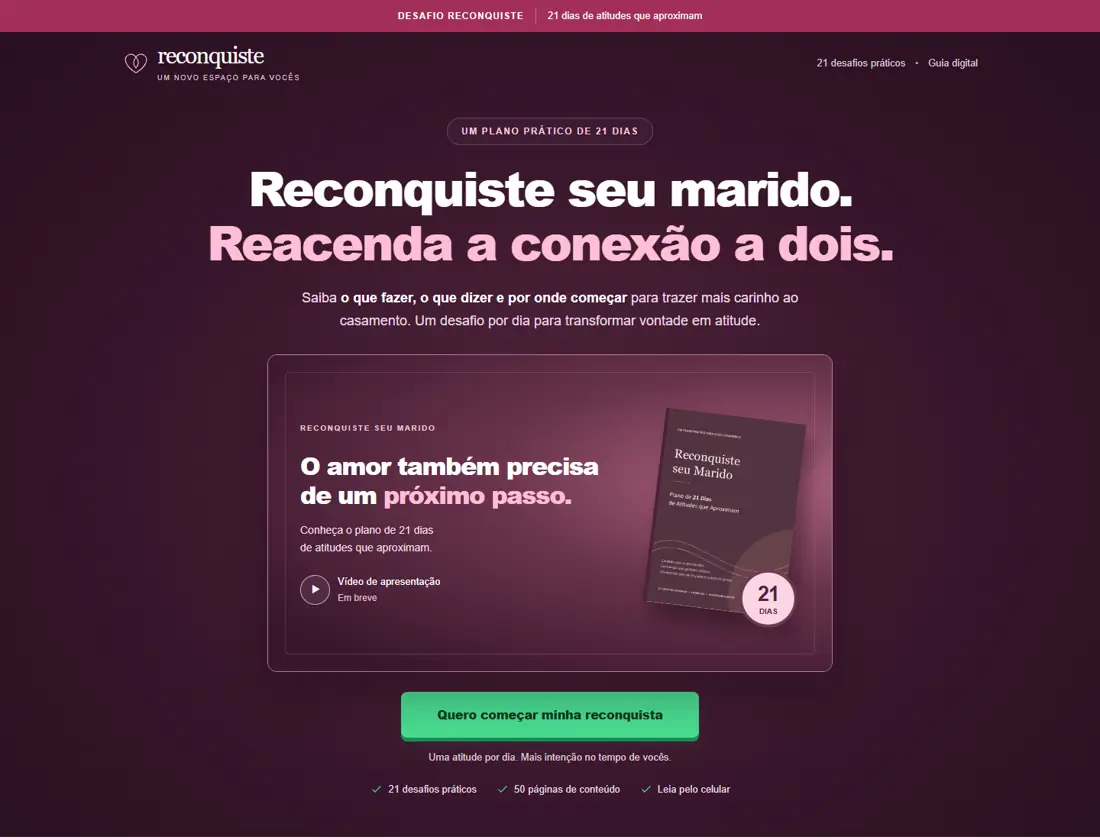
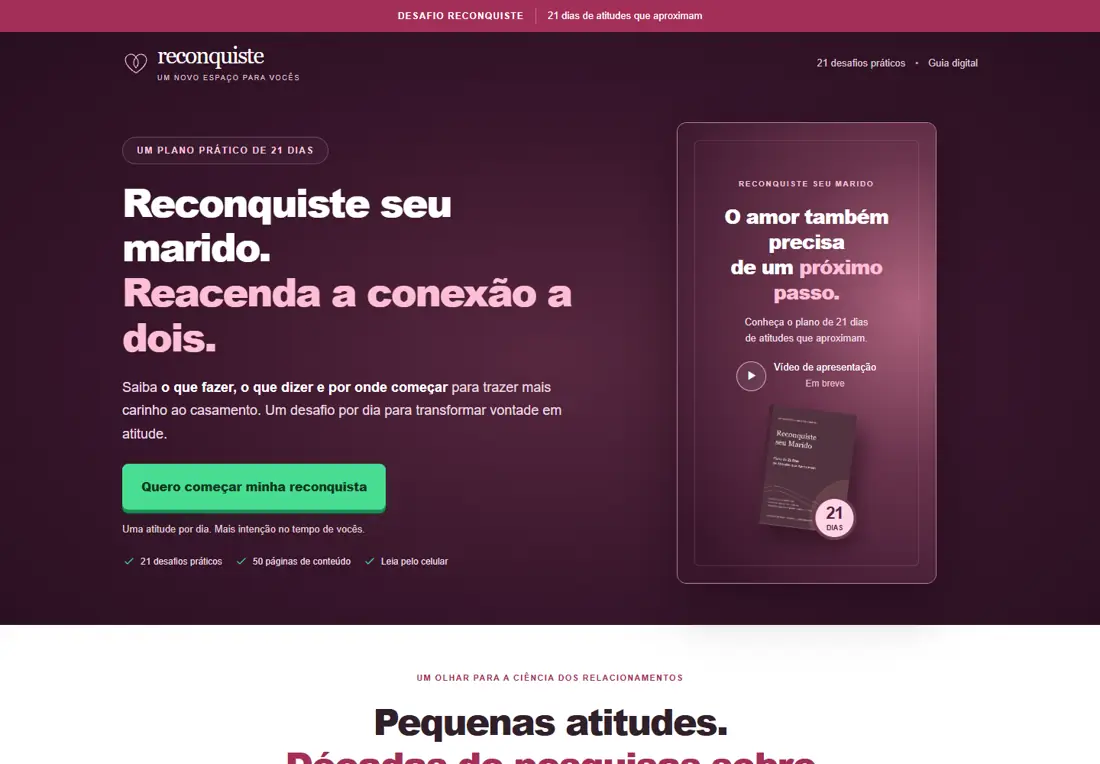
Switch VSL to portrait layout and prepare checkout-backed offer countdown

diff --git a/styles.css b/styles.css
@@ -332,3 +332,65 @@ dialog{padding:35px 24px}dialog h2{font-size:1.75rem}dialog p{font-size:.875rem}
 
 .person-avatar img{opacity:0}
 .person-avatar img.is-loaded{opacity:1}
+
+/* VSL vertical em todos os estados do player. */
+.hero{display:grid;grid-template-columns:minmax(0,1.15fr) minmax(0,.85fr);grid-template-rows:auto auto;column-gap:64px;row-gap:24px;align-items:center;text-align:left;padding-block:34px 54px}
+.hero-copy{grid-column:1;grid-row:1;align-self:end;max-width:none;margin:0}
+.hero h1{font-size:clamp(2.4rem,3.55vw,3.2rem);line-height:1.15}
+.hero-description{margin:22px 0 0;max-width:none}
+.hero-media{display:contents}
+.video-shell{grid-column:2;grid-row:1/3;aspect-ratio:9/16;width:min(100%,340px,calc(66svh * 9 / 16));max-height:66svh;margin-inline:auto;justify-self:center}
+.video-poster{flex-direction:column;justify-content:center;gap:24px;text-align:center;padding:30px 24px}
+.poster-copy{flex:none;width:100%}
+.poster-overline{font-size:.625rem;margin-bottom:17px}
+.video-poster p{font-size:1.65rem;line-height:1.25}
+.poster-subtitle{font-size:.8125rem;margin-top:13px}
+.video-placeholder{justify-content:center;font-size:.8125rem;margin-top:19px}
+.video-play{font-size:.8125rem;margin-top:18px}
+.poster-book{width:115px;margin:0}
+.poster-seal{width:58px;height:58px;right:-16px;bottom:-10px;font-size:.5625rem}
+.poster-seal strong{font-size:1.4rem}
+.hero-action{grid-column:1;grid-row:2;align-self:start;text-align:left;margin:0}
+.hero-action .button{min-width:0;max-width:100%;padding-inline:25px}
+.hero-facts{justify-content:flex-start;gap:8px 16px;font-size:.75rem}
+.announcement .countdown-pill{padding:5px 12px;border:1px solid #ffffff65;background:#52142f45;border-radius:6px;line-height:1.3}
+.countdown-pill time{font-size:1.125rem;font-weight:800;letter-spacing:.04em;font-variant-numeric:tabular-nums}
+@media(max-width:1000px) and (min-width:761px){
+.hero{column-gap:35px}
+.hero h1{font-size:2.55rem}
+.hero-description{font-size:1rem}
+.hero-facts{font-size:.6875rem;gap:8px 10px}
+}
+@media(max-width:760px){
+.hero{display:flex;flex-direction:column;gap:0;padding-block:22px 36px;text-align:center}
+.hero-copy{text-align:center;margin:0;width:100%;align-self:auto}
+.hero h1{font-size:clamp(2rem,7.6vw,2.9rem)}
+.hero-description{font-size:1rem;margin:19px auto 24px;max-width:500px}
+.video-shell{width:min(100%,320px,calc(64svh * 9 / 16));max-height:64svh;aspect-ratio:9/16;margin:0 auto;flex:none}
+.video-poster{padding:24px 20px;gap:19px}
+.poster-copy p{font-size:1.35rem}
+.poster-subtitle{font-size:.75rem;display:block}
+.poster-book{width:105px}
+.poster-overline{display:none}
+.video-placeholder{font-size:.75rem;gap:8px;margin-top:16px}
+.video-placeholder small{font-size:.75rem}
+.video-symbol{width:30px;height:30px}
+.video-play{font-size:.75rem;min-height:40px}
+.hero-action{text-align:center;width:100%;max-width:440px;margin-top:24px;align-self:center}
+.hero-action .button{width:100%;font-size:1rem;padding-inline:17px}
+.hero-facts{justify-content:center;font-size:.8125rem;gap:8px 16px}
+.announcement:has(.countdown-pill:not([hidden])){flex-wrap:wrap;gap:7px 12px;padding-block:9px}
+.announcement .countdown-pill{padding:5px 8px;flex-shrink:0}
+.countdown-pill time{font-size:1rem}
+}
+@media(max-width:360px){
+.hero h1{font-size:1.9rem}
+.hero-action .button{font-size:.9375rem}
+.hero-facts{font-size:.75rem}
+.video-poster{gap:13px;padding:18px 15px}
+.poster-copy p{font-size:1.125rem}
+.poster-book{width:85px}
+.poster-subtitle{font-size:.6875rem}
+.video-placeholder{font-size:.6875rem;margin-top:13px}
+.video-placeholder small{font-size:.6875rem}
+}

diff --git a/app.js b/app.js
@@ -10,6 +10,34 @@
     // Evento local: integrar o destino de tracking somente com consentimento e política atualizada.
     window.dispatchEvent(new CustomEvent("reconquiste:event", { detail: { name, ...detail } }));
   };
+
+  // O prazo vem do checkout/backend; nunca é inventado ou reiniciado pelo navegador.
+  const offer = config.offerCountdown;
+  const offerDeadline = Date.parse(offer?.expiresAt || "");
+  if (offer?.enabled === true && offer.checkoutEnforcesDeadline === true && Number.isFinite(offerDeadline)) {
+    const clock = $("#offer-countdown");
+    const wrapper = $("#offer-countdown-wrap");
+    let timer;
+    const tick = () => {
+      const remaining = Math.max(0, Math.ceil((offerDeadline - Date.now()) / 1000));
+      const minutes = String(Math.floor(remaining / 60)).padStart(2, "0");
+      const seconds = String(remaining % 60).padStart(2, "0");
+      clock.textContent = minutes + ":" + seconds;
+      wrapper.hidden = remaining === 0;
+      $("#offer-banner-title").textContent = remaining ? "CONDIÇÃO ESPECIAL" : "ESTA CONDIÇÃO ENCERROU";
+      $("#offer-banner-description").textContent = remaining ? "Encerra em" : "Consulte o valor atual no checkout.";
+      if (!remaining) {
+        clearInterval(timer);
+        $("#price-block").hidden = true;
+        $("#purchase-button").textContent = "Consultar condição atual";
+      }
+    };
+    tick();
+    if (offerDeadline > Date.now()) timer = setInterval(tick, 1000);
+    document.addEventListener("visibilitychange", () => { if (!document.hidden) tick(); });
+    window.addEventListener("pageshow", tick);
+  }
+
   // Se um retrato externo estiver indisponível, preserva a identificação por iniciais.
   document.querySelectorAll(".person-avatar img").forEach((image) => {
     const show = () => image.classList.add("is-loaded");
@@ -91,11 +119,11 @@
     const updateSticky = () => { $("#mobile-cta").hidden = heroVisible || offerVisible; };
     const observer = new IntersectionObserver((entries) => {
       entries.forEach((entry) => {
-        if (entry.target.id === "inicio") heroVisible = entry.isIntersecting;
+        if (entry.target.id === "hero-copy") heroVisible = entry.isIntersecting;
         if (entry.target.id === "plano") offerVisible = entry.isIntersecting;
       });
       updateSticky();
     }, { threshold: 0 });
-    observer.observe($("#inicio")); observer.observe($("#plano"));
+    observer.observe($("#hero-copy")); observer.observe($("#plano"));
   }
 })();

diff --git a/index.html b/index.html
@@ -16,7 +16,7 @@
 </head>
 <body>
   <a class="skip-link" href="#conteudo">Ir para o conteúdo</a>
-  <div class="announcement"><strong>DESAFIO RECONQUISTE</strong><span>21 dias de atitudes que aproximam</span></div>
+  <div class="announcement" id="offer-banner"><strong id="offer-banner-title">DESAFIO RECONQUISTE</strong><span id="offer-banner-description">21 dias de atitudes que aproximam</span><span class="countdown-pill" id="offer-countdown-wrap" hidden><time id="offer-countdown" aria-label="Tempo restante da condição especial">10:00</time></span></div>
   <main id="conteudo">
   <div class="hero-band">
     <header class="site-header wrap">
@@ -24,7 +24,7 @@
       <span class="header-detail">21 desafios práticos <span>•</span> Guia digital</span>
     </header>
     <section class="hero wrap" id="inicio" aria-labelledby="hero-title">
-      <div class="hero-copy">
+      <div class="hero-copy" id="hero-copy">
         <p class="eyebrow hero-badge">UM PLANO PRÁTICO DE 21 DIAS</p>
         <h1 id="hero-title">Reconquiste seu marido.<br><em>Reacenda a conexão a dois.</em></h1>
         <p class="hero-description">Saiba <strong>o que fazer, o que dizer e por onde começar</strong> para trazer mais carinho ao casamento. Um desafio por dia para transformar vontade em atitude.</p>

diff --git a/config.js b/config.js
@@ -7,5 +7,8 @@ window.RECONQUISTE_CONFIG = Object.freeze({
   videoUrl: "",
   // "video" para MP4/WebM; "embed" para YouTube/Vimeo (somente URL de incorporação).
   videoType: "video",
-  supportEmail: ""
+  supportEmail: "",
+  // Só ativar com uma condição que expire de fato na plataforma de pagamento.
+  // expiresAt é o prazo absoluto fornecido pelo checkout/backend, inclusive por sessão.
+  offerCountdown: { enabled: false, expiresAt: "", checkoutEnforcesDeadline: false }
 });

diff --git a/README.md b/README.md
@@ -44,15 +44,15 @@ Produção informada pelo proprietário: https://desafioreconquiste21dias.vercel
 
 ## Conteúdo e decisões
 
-- Hero central com promessa em destaque, VSL em 16:9, mockup da capa real e CTA principal logo abaixo.
+- VSL vertical em 9:16, no pôster e nos players MP4/WebM e iframe. Desktop com chamada e CTA ao lado; celular com vídeo centralizado e altura limitada à tela.
 - Sequência de venda: Hero, autoridades de pesquisa, relatos com retratos e fonte, identificação com a rotina, benefícios do plano, amostra concreta, três etapas, oferta com lista completa e fechamento.
 - CTAs distribuídos ao longo da página para a mesma oferta; checkout centralizado em `config.js`.
 - Conteúdo comercial limitado ao guia real: 50 páginas, 21 desafios, exemplos, adaptações e acompanhamento.
-- Não há desconto fictício, contador, escassez, avaliações inventadas, estatísticas de clientes ou garantia de reconquista.
+- Não há desconto fictício, escassez, avaliações inventadas, estatísticas de clientes ou garantia de reconquista. O componente de contagem está desativado até existir uma condição real com prazo no checkout.
 - Os relatos externos identificam a prática e o material utilizados em cada experiência. Não são avaliações do nosso produto.
 - Vinho escuro `#280f20`, rosa `#ffbed5`, fundos claros e CTAs em verde `#49dd91`, com texto escuro. Contraste e hierarquia orientam a escolha; não há alegação de cor comprovadamente superior para mulheres.
 - Tipografia nativa, capa e retrato ilustrativo em WebP local, sem bibliotecas, fontes ou rastreadores externos. Dois retratos oficiais são carregados de seus CDNs, sob demanda, sem enviar a URL da LP como referenciador.
-- Botão fixo no celular aparece após a Hero e desaparece quando a oferta entra na tela. FAQ nativa, diálogos acessíveis, foco de teclado e respeito à preferência de movimento reduzido.
+- Botão fixo no celular aparece após o texto inicial da Hero e desaparece quando a oferta entra na tela. FAQ nativa, diálogos acessíveis, foco de teclado e respeito à preferência de movimento reduzido.
 
 Veja a documentação de pesquisa em `docs/fontes.md`.
 
@@ -66,3 +66,15 @@ Veja a documentação de pesquisa em `docs/fontes.md`.
 - Estados sem preço, VSL e checkout conferidos; nenhum erro JavaScript observado.
 
 A Vercel foi publicada pelo proprietário. Preço, checkout e VSL continuam pendentes em `config.js`; as simulações de configuração não são compras reais. Não há resultado de conversão medido nesta etapa.
+
+## Prazo de oferta e contagem
+
+O componente do topo fica pronto em `offerCountdown`, mas está desativado. O preço e a condição que termina ainda não foram definidos.
+
+Para ativar: fornecer `expiresAt` como data ISO absoluta e ativar `checkoutEnforcesDeadline` somente quando a plataforma realmente encerrar a condição nesse prazo. Para dez minutos individuais por visitante, o backend deve criar e manter esse prazo por sessão; o navegador não inicia nem reinicia uma oferta fictícia ao entrar ou recarregar.
+
+Ao terminar uma condição real, o contador desaparece, o preço promocional é ocultado e o CTA passa a consultar a condição atual no checkout. O código não cria aumento de preço nem bloqueia uma venda por conta própria. A promoção precisa ser aplicada e validada pela plataforma de pagamento.
+
+## VSL vertical
+
+O player mantém 9:16 antes e depois de reproduzir, sem cortar o vídeo. No desktop, fica ao lado da promessa e do CTA; no celular, fica centralizado. A altura se adapta à tela. A VSL ainda precisa ser fornecida.
